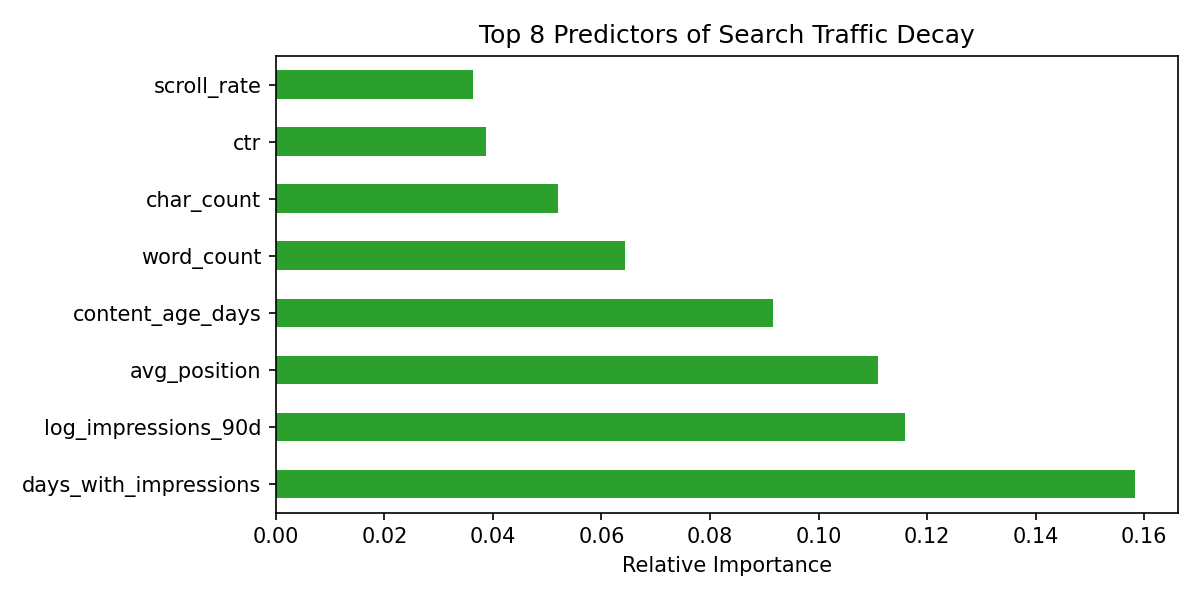
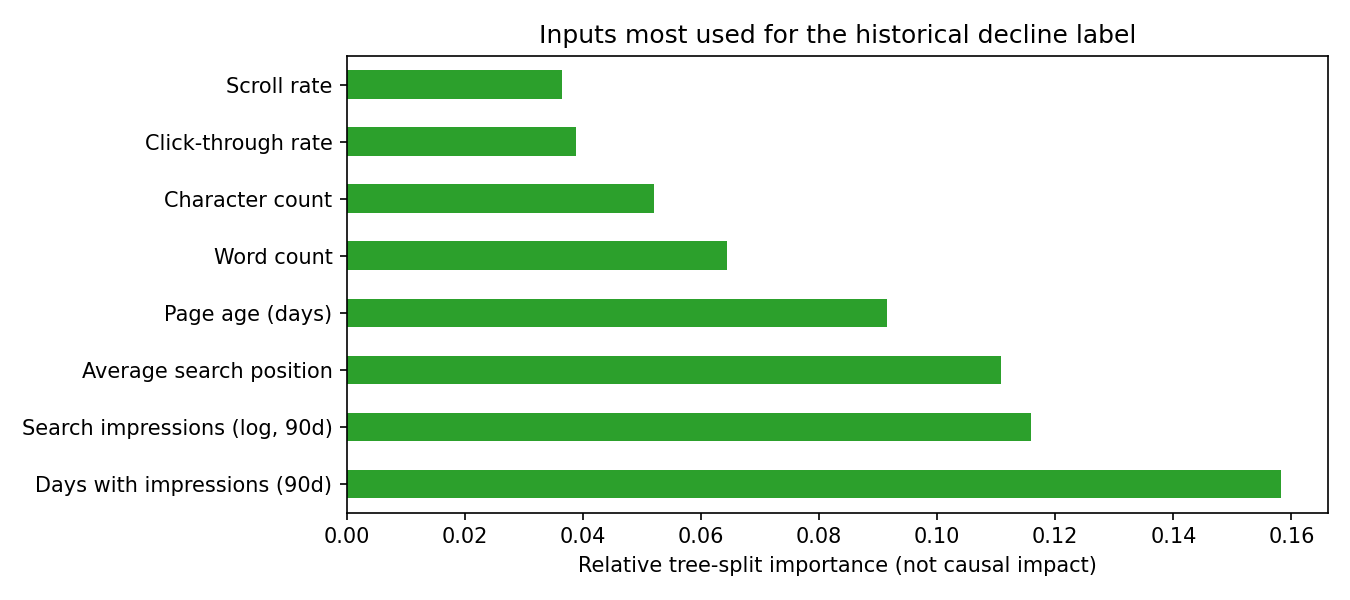
Clarify capstone paper language

diff --git a/docs/index.html b/docs/index.html
@@ -56,27 +56,27 @@
   <header class="hero">
     <p class="eyebrow">Capstone · Applied Search Intelligence</p>
     <h1>Prioritizing content refresh reviews with search and engagement signals</h1>
-    <p class="dek">Can a learned ranking help editors find declining content sooner than a transparent rule? A client-held-out comparison on an anonymized starter dataset.</p>
+    <p class="dek">A comparison of a trained model and a hand-written scoring rule, tested on records from clients excluded from training, for ranking already-observed search-impression declines.</p>
   </header>
 
   <main>
     <section aria-labelledby="abstract">
       <h2 id="abstract">Abstract</h2>
-      <p>This project evaluates whether a Random Forest can rank pages with a historical search-traffic decline label ahead of a hand-built heuristic. On one held-out group of seven clients, model Precision@50 was 0.580, compared with 0.340 for the heuristic; the holdout decline prevalence was 0.511. The result is directional and modest overall (ROC-AUC 0.609). It supports further human-reviewed testing, not an automatic refresh decision or a claim that refreshing causes recovery.</p>
+      <p>We trained a machine-learning model called Random Forest, which combines many decision trees, to score records labelled as having a recent drop in search impressions. We compared its ranking with a hand-written scoring rule on records from seven clients left out of training. Among the 50 highest-ranked records, 29 had the decline label (precision 0.580), compared with 17 of 50 for the rule (0.340). The model's overall ranking ability was modest (ROC-AUC 0.609). Because the input metrics overlap the period used to define the decline label, this is a retrospective comparison—not an early-warning or future-prediction test. It does not show that refreshing content recovers traffic.</p>
       <p class="muted">Dataset: 30,000 anonymized content records · 32 pseudonymized client groups · evaluation seed: 42</p>
     </section>
 
     <section aria-labelledby="question">
       <h2 id="question">Question and decision</h2>
-      <p><strong>Research question:</strong> Can machine-learned ranking over observable search and engagement signals outperform fixed heuristic rules when prioritizing potentially declining content for editorial review?</p>
-      <p><strong>Decision supported:</strong> Which pages should an editor inspect first when review time is limited? A reviewer can check content freshness, search snippet/CTR, engagement, and editorial context before deciding what—if anything—to change.</p>
-      <p>The cost of a false positive is wasted editorial attention. A false negative can leave a potentially useful page's decline unreviewed. Human review remains part of the process.</p>
+      <p><strong>Research question:</strong> In this dataset, does a model trained on search, engagement, and content information rank records labelled with a recent search-impression decline differently from a transparent scoring rule, when tested on clients absent from model training?</p>
+      <p><strong>Decision this could inform:</strong> Which pages might an editor choose to inspect first? The score is only a way to order records for review. An editor still needs to check the page, its search snippet and engagement context, and decide whether any change is appropriate.</p>
+      <p>A false positive uses editorial time on a page that may not need attention; a false negative may leave a declining page unreviewed. The experiment measures agreement with an existing label, not the benefit of acting on the score.</p>
     </section>
 
     <section aria-labelledby="data">
       <h2 id="data">Data and safeguards</h2>
-      <p>The bundled anonymized snapshot contains 30,000 content records across 32 pseudonymized client groups. The analysis uses records with positive 90-day impressions and content age of at least 90 days. The label is whether <code>trend_direction</code> equals <code>down</code>; this is a historical label, not a future forecast.</p>
-      <p>Label-derived <code>trend_direction</code> and <code>trend_pct</code> are excluded from model inputs. Client IDs are used only to keep groups separate during validation; content IDs are not features. The page publishes aggregate metrics and charts only—no row-level queue, pseudonymous IDs, URLs, titles, client names, or raw queries.</p>
+      <p>The bundled anonymized snapshot contains 30,000 content records across 32 pseudonymized client groups. We kept records with at least one search impression in the trailing 90 days and content at least 90 days old. A record gets the decline label when its search impressions in the most recent 30 days are more than 20% lower than in the preceding 30 days. That label describes a change that has already happened; it is not a forecast.</p>
+      <p>We excluded the label fields (<code>trend_direction</code> and <code>trend_pct</code>) from the model inputs. Client IDs were used only to keep each client entirely in either training or testing; content IDs were not model inputs. Important limitation: the input features include 90-day impression totals, which overlap the 30-day periods used to create the label. The test therefore checks retrospective ranking on unseen clients, not whether the model can warn about a decline before it occurs. This page shows aggregate results only—not record-level recommendations or pseudonymous IDs.</p>
       <div aria-label="Excluded information">
         <span class="pill">No label-derived features</span>
         <span class="pill">Client-group holdout</span>
@@ -86,56 +86,56 @@
 
     <section aria-labelledby="method">
       <h2 id="method">Method</h2>
-      <p>The heuristic combines normalized log impressions, content freshness, and a rank-opportunity score. Its position score is 1.0 for average positions 4–20, 0.5 for positions 1–3, and 0.1 for other or unavailable positions. The notebook originally checked the broad position band first, making its nested top-three case unreachable; that condition order was corrected before these results were regenerated.</p>
-      <p>The Random Forest uses 100 trees, maximum depth 10, and random seed 42. Its 18 numeric inputs include search volume, impressions/clicks/sessions, content age/freshness, CTR, average position, and engagement measures. Five categorical inputs—competition level, content type, intent, age tier, and position tier—are one-hot encoded, yielding 52 model columns.</p>
-      <p>A single <code>GroupShuffleSplit</code> with 20% test size and seed 42 held out 7 client groups. Training used 23,837 rows from 25 clients; testing used 6,163 rows from unseen clients. This is one group holdout, not cross-validation or an out-of-fold estimate.</p>
+      <p>The comparison rule adds three hand-weighted scores: search visibility (log-scaled 90-day impressions), time since the page was last updated, and average search position. It gives more position points to pages ranking 4–20 than to pages already in the top three, and a small default score when position is unavailable or outside that range. These weights are a simple comparison rule, not weights learned from data.</p>
+      <p>The trained Random Forest combines 100 decision trees; each tree makes a series of yes/no splits, and the combined trees produce a score for the decline label. We used 18 numeric inputs (including search demand, impressions, clicks, sessions, content age, click-through rate (CTR), and engagement) and five descriptive categories (competition level, content type, intent, age group, and position group). The categories were converted into 52 numeric input columns. The model did not receive the decline-label fields.</p>
+      <p>For a fair client-level separation, we used one random split: 25 clients (23,837 records) for training and seven different clients (6,163 records) for testing. No test client contributed training records. This is one held-out test set, not repeated cross-validation. Seed 42 makes the split reproducible.</p>
     </section>
 
     <section aria-labelledby="results">
       <h2 id="results">Results on the same holdout</h2>
-      <p>The test-set decline prevalence was <strong>0.511</strong>. Precision@K is the share of declining-label records among the top K ranked records.</p>
+      <p>Among the 6,163 test records, <strong>51.1%</strong> had the historical decline label. The two “share” columns show what fraction of the top 20 or top 50 records in each ranking carried that label. The overall ranking score summarizes how often a decline-labelled record is ranked above a non-decline record across ranking cutoffs; 0.5 is chance-level ordering.</p>
       <div style="overflow-x:auto">
         <table class="metrics">
-          <thead><tr><th scope="col">Ranker</th><th scope="col">Precision@20</th><th scope="col">Precision@50</th><th scope="col">ROC-AUC</th></tr></thead>
+          <thead><tr><th scope="col">Scoring approach</th><th scope="col">Share with decline label (top 20)</th><th scope="col">Share with decline label (top 50)</th><th scope="col">Overall ranking score (ROC-AUC)</th></tr></thead>
           <tbody>
-            <tr><th scope="row">Heuristic</th><td>0.200</td><td>0.340</td><td>0.529</td></tr>
-            <tr><th scope="row">Random Forest</th><td>0.450</td><td>0.580</td><td>0.609</td></tr>
+            <tr><th scope="row">Hand-written rule</th><td>20.0%</td><td>34.0%</td><td>0.529</td></tr>
+            <tr><th scope="row">Trained model</th><td>45.0%</td><td>58.0%</td><td>0.609</td></tr>
           </tbody>
         </table>
       </div>
-      <p>The model gains 0.240 absolute Precision@50 over the heuristic (about 1.7×). Its Precision@50 is 0.069 above the holdout prevalence, while Precision@20 is below prevalence. ROC-AUC remains modest, so the observed top-50 improvement should not be read as strong general separation.</p>
+      <p>In this test set, 58% of the model's top 50 records had the decline label (29 records); the rule's top 50 contained 34% (17 records). That is a 24 percentage-point difference on this one split. The model's top-50 result was 6.9 points above the 51.1% test-set share, while its top 20 contained only 45% labelled declines—below that share. ROC-AUC is a summary of how often a randomly selected decline-labelled record is ranked above a non-decline record; 0.609 indicates only modest separation here. These figures describe this test sample and do not establish future performance.</p>
       <figure>
-        <img src="capstone_precision_comparison.png" alt="Bar chart comparing Precision at 50: heuristic 0.340 and Random Forest 0.580.">
-        <figcaption>Figure 1. Precision@50 on the same held-out clients; higher is better for this review-capacity metric.</figcaption>
+        <img src="capstone_precision_comparison.png" alt="Bar chart showing 17 of the heuristic's top 50 records and 29 of the trained model's top 50 records carried the historical decline label.">
+        <figcaption>Figure 1. Share of labelled declines among the top 50 records for each scoring approach, using the same held-out clients.</figcaption>
       </figure>
     </section>
 
     <section aria-labelledby="interpretation">
-      <h2 id="interpretation">What the model used</h2>
-      <p>The largest fitted-tree impurity importances were days with impressions (0.1582), log 90-day impressions (0.1160), average position (0.1109), and content age (0.0916). These are relative model split importances—not causal effects—and correlated signals can share or distort importance.</p>
+      <h2 id="interpretation">Which information mattered most to the fitted model?</h2>
+      <p>The model's largest input-importance scores were: number of days with impressions in the trailing 90 days (0.1582), log-scaled 90-day impressions (0.1160), average search position (0.1109), and page age (0.0916). These scores describe how useful each input was for the fitted trees' splits; they do not show that a factor caused a decline. Related inputs can overlap, and this importance measure can favor some kinds of features.</p>
       <figure>
-        <img src="capstone_feature_importance.png" alt="Horizontal bar chart of the top eight Random Forest feature importances, led by days with impressions, log impressions, average position, and content age.">
-        <figcaption>Figure 2. Top eight relative feature importances from this fitted Random Forest.</figcaption>
+        <img src="capstone_feature_importance.png" alt="Horizontal bar chart of the eight inputs most used by the trained model to separate records with and without the historical decline label.">
+        <figcaption>Figure 2. Relative input-importance scores for the fitted model. Higher scores indicate more use in the tree splits, not greater causal influence.</figcaption>
       </figure>
     </section>
 
     <section aria-labelledby="recommendation">
       <h2 id="recommendation">Practical use and limits</h2>
-      <p>Use this as a candidate queue for editors, not as an automated publishing system. Verify each page and its context before acting; record changes and monitor outcomes. In the exploratory full-portfolio queue, aggregate action suggestions were: refresh 10,877; CTR review 9,428; monitor 6,428; engagement review 3,204; expand and refresh 63. These are action-rule counts, not measured improvements.</p>
+      <p>The score could be used to order pages for editorial inspection, but it should not trigger automatic changes. Check each page and its context before deciding whether to update it; track results if changes are made. The exploratory queue assigned these rule-based review categories: refresh 10,877; review the search snippet/click-through rate 9,428; monitor 6,428; review engagement 3,204; expand and refresh 63. These are category counts across the dataset, not measured benefits or success rates.</p>
       <ul>
-        <li>The label describes historical decline; it does not predict a future time period.</li>
-        <li>Only one client-group split was evaluated. Results may vary across clients and splits.</li>
-        <li>ROC-AUC is modest, and missing values are filled with zero in this prototype.</li>
-        <li>SERP features, seasonality, and external changes may explain traffic shifts but are not modeled here.</li>
-        <li>The queue model was fitted on training clients and then scored over the full portfolio; rows from training clients are not out-of-sample predictions.</li>
-        <li>No causal effect of content refresh is estimated. Prospective controlled testing is needed to measure recovery.</li>
+        <li>The label identifies a drop already observed between two adjacent 30-day periods. The 90-day input metrics overlap those periods, so this analysis cannot establish advance warning.</li>
+        <li>Only one split of clients was tested. Results could differ for other clients or another split.</li>
+        <li>The overall ranking score was modest; missing numeric inputs were filled with zero, which can affect results.</li>
+        <li>Search-results features, seasonal patterns, and external changes are not included and could help explain the observed drops.</li>
+        <li>The exploratory full-dataset queue was scored by a model trained on 25 clients. Records from those training clients were seen during fitting, so their queue scores are not independent test predictions.</li>
+        <li>This study did not measure whether editing a page recovers its traffic. That would require a separate prospective experiment.</li>
       </ul>
-      <div class="callout"><strong>Claim boundary:</strong> This is an observational, directional decision-support analysis. It does not predict Google's algorithm or prove that a content refresh will recover traffic.</div>
+      <div class="callout"><strong>What this study can say:</strong> On one held-out set of clients, the trained model placed more records carrying an already-observed decline label in its top 50 than the hand-written rule did. It cannot say whether it would identify future declines early or whether changing a page would restore traffic.</div>
     </section>
 
     <section aria-labelledby="repro">
       <h2 id="repro">Reproducibility</h2>
-      <p>Verified with Python 3.11.9, NumPy 2.4.6, pandas 3.0.6, scikit-learn 1.9.1, and Matplotlib 3.10.8. The group split and Random Forest use seed 42.</p>
+      <p>Verified with Python 3.11.9, NumPy 2.4.6, pandas 3.0.6, scikit-learn 1.9.1, and Matplotlib 3.10.8. The group split and trained tree-ensemble model use seed 42.</p>
       <pre><code>python -m pip install -r requirements.txt jupyter
 jupyter notebook work/notebooks/capstone.ipynb</code></pre>
       <p>From the repository root, open the notebook and choose <strong>Run All</strong>. The notebook uses <code>data/raw/content_refresh_anonymized.csv</code> and writes aggregate figures into <code>work/outputs/</code>.</p>

diff --git a/work/capstone_report.md b/work/capstone_report.md
@@ -6,15 +6,15 @@
 
 ## 1. Problem framing
 
-This project asks whether a learned ranking can help editors identify existing content that is more likely to show declining search traffic. The decision is which pages to review first when editorial time is limited. The output is a ranked, human-reviewed refresh queue; an editor decides whether to inspect a page, revise its content, review its search snippet, or leave it alone. A false positive wastes review time; a false negative may leave a useful page's decline unnoticed. The model does not prescribe automatic publishing.
+This project compares a trained model with a hand-written scoring rule to see how they rank records carrying a historical search-impression decline label. The model is a Random Forest: it combines many decision trees, each of which applies a sequence of yes/no splits to the input information. The score could help an editor decide which pages to inspect first, but does not decide whether to make a change. A high-ranked record without the decline label may use review time unnecessarily; a decline-labelled record ranked lower may not be reviewed.
 
 ## 2. Data safety
 
-The analysis uses the repository's 30,000-row anonymized starter snapshot, with 32 pseudonymized client groups. It filters to records with positive 90-day impressions and content age of at least 90 days. The binary label is `trend_direction == "down"`. `trend_direction` and `trend_pct` are not features. `client_id` is used only for the group split; `content_id` is not a feature. The model also excludes last-30-day fields. No URLs, titles, raw queries, client names, or row-level recommendations are included in the published paper.
+The analysis uses the repository's 30,000-row anonymized starter snapshot, with 32 pseudonymized client groups. It filters to records with positive 90-day impressions and content age of at least 90 days. The binary label is `trend_direction == "down"`: impressions in the latest 30-day period are more than 20% below the preceding 30-day period. This records an already-observed change, not a future outcome. `trend_direction` and `trend_pct` are not model inputs. `client_id` is used only for the group split; `content_id` is not a feature. However, the 90-day input metrics overlap the 30-day windows used to form the label. The evaluation therefore measures retrospective ranking alignment on held-out clients, not advance warning. No URLs, titles, raw queries, client names, or row-level recommendations are included in the published paper.
 
 ## 3. Baseline
 
-The transparent heuristic uses 90-day impressions, time since last update, and average search position:
+The transparent hand-written scoring rule uses three quantities: 90-day search impressions (as a visibility measure), days since last update (as a freshness measure), and average search position (as a visibility/opportunity measure):
 
 `100 × (0.40 × visibility + 0.30 × freshness + 0.25 × position opportunity)`
 
@@ -22,24 +22,24 @@ Visibility is `log1p(impressions_90d) / log1p(30000)`. Freshness is `days_since_
 
 ## 4. Model / analysis
 
-The target is a historical decline indicator, not a future outcome: `is_declining_label = (trend_direction == "down")`. The analysis compares the heuristic with a 100-tree Random Forest (`max_depth=10`, `random_state=42`). Inputs are 18 numeric signals (`search_volume`, `competition`, `cpc`, `word_count`, `char_count`, log-transformed 90-day impressions/clicks/sessions/AI sessions, days with impressions/sessions, content age, days since update, CTR, average position, engagement rate, scroll rate, and AI traffic percentage) and five categorical fields (`competition_level`, `content_type`, `main_intent`, `age_tier`, `position_tier`). One-hot encoding produces 52 model columns for this run.
+The target is an already-observed decline indicator, not a future outcome: `is_declining_label = (trend_direction == "down")`. The analysis compares the rule with a Random Forest that combines 100 decision trees (`max_depth=10`, `random_state=42`). Inputs are 18 numeric signals (`search_volume`, `competition`, `cpc`, `word_count`, `char_count`, log-transformed 90-day impressions/clicks/sessions/AI sessions, days with impressions/sessions, content age, days since update, CTR, average position, engagement rate, scroll rate, and AI traffic percentage) and five categorical fields (`competition_level`, `content_type`, `main_intent`, `age_tier`, `position_tier`). The five categories are converted into numeric indicator columns, producing 52 input columns for this run.
 
 ## 5. Evaluation
 
-`GroupShuffleSplit(test_size=0.20, random_state=42)` holds out complete client groups: 25 training clients (23,837 rows) and 7 unseen test clients (6,163 rows). The test-set decline prevalence is 0.511. The comparison below uses the same test rows and the same top-K definition for both rankers.
+`GroupShuffleSplit(test_size=0.20, random_state=42)` holds out complete client groups: 25 training clients (23,837 rows) and 7 unseen test clients (6,163 rows). In the test group, 51.1% of records carried the decline label. The comparison below uses the same test rows and top-20/top-50 cutoffs for both methods. The top-20 and top-50 shares are the fractions of those records carrying the label. ROC-AUC summarizes how often a decline-labelled record is ranked above a non-decline record across cutoffs; 0.5 is chance-level ordering.
 
-| Ranker | Precision@20 | Precision@50 | ROC-AUC |
+| Scoring approach | Share with label (top 20) | Share with label (top 50) | Overall ranking score (ROC-AUC) |
 |---|---:|---:|---:|
-| Heuristic baseline | 0.200 | 0.340 | 0.529 |
-| Random Forest | 0.450 | 0.580 | 0.609 |
+| Hand-written rule | 20.0% | 34.0% | 0.529 |
+| Trained model | 45.0% | 58.0% | 0.609 |
 
-At 50 reviewed pages, the model's precision is 0.240 higher than the heuristic and about 1.7 times its precision. Precision@50 is 0.069 above the test-set prevalence; precision@20 (0.450) is below prevalence. ROC-AUC is only 0.609, so overall separation remains modest. These top-K results are directional evidence from one client holdout, not a guarantee of performance on new samples.
+In this test set, 29 of the model's top 50 records had the decline label, compared with 17 of the rule's top 50. That is a 24-percentage-point difference in the share for this one test split. The model's top-50 share is 6.9 percentage points above the 51.1% test-set share; its top-20 share (45.0%) is below that level. The overall ranking score of 0.609 indicates only modest separation here. These are retrospective results from one client holdout, not evidence of advance warning or a guarantee of performance on new samples.
 
 These are capstone-notebook results, not a rerun of the reference pipeline benchmark in `outputs/model_report.md`. The reference pipeline uses a different client split, baseline, feature encoding, and Random Forest configuration (200 trees and `min_samples_leaf=25`, versus 100 trees and no class weighting here); its reported 0.680/0.240 Precision@50 values must not be mixed into this table.
 
 ## 6. Interpretation
 
-The largest Random Forest impurity importances were days with impressions (0.1582), log 90-day impressions (0.1160), average position (0.1109), and content age (0.0916), followed by word count (0.0643), character count (0.0521), CTR (0.0388), and scroll rate (0.0364). These describe how the fitted trees split this dataset; they are not causal effects, and correlated signals can share or distort importance.
+The largest tree-split importance scores were days with impressions (0.1582), log 90-day impressions (0.1160), average position (0.1109), and content age (0.0916), followed by word count (0.0643), character count (0.0521), CTR (0.0388), and scroll rate (0.0364). These scores describe how the fitted trees used the inputs to separate the labels; they are not causal effects, and related inputs can share or distort importance.
 
 The two figures embedded in the deployed page show the corrected same-holdout Precision@50 comparison and these top eight relative importances.
 
